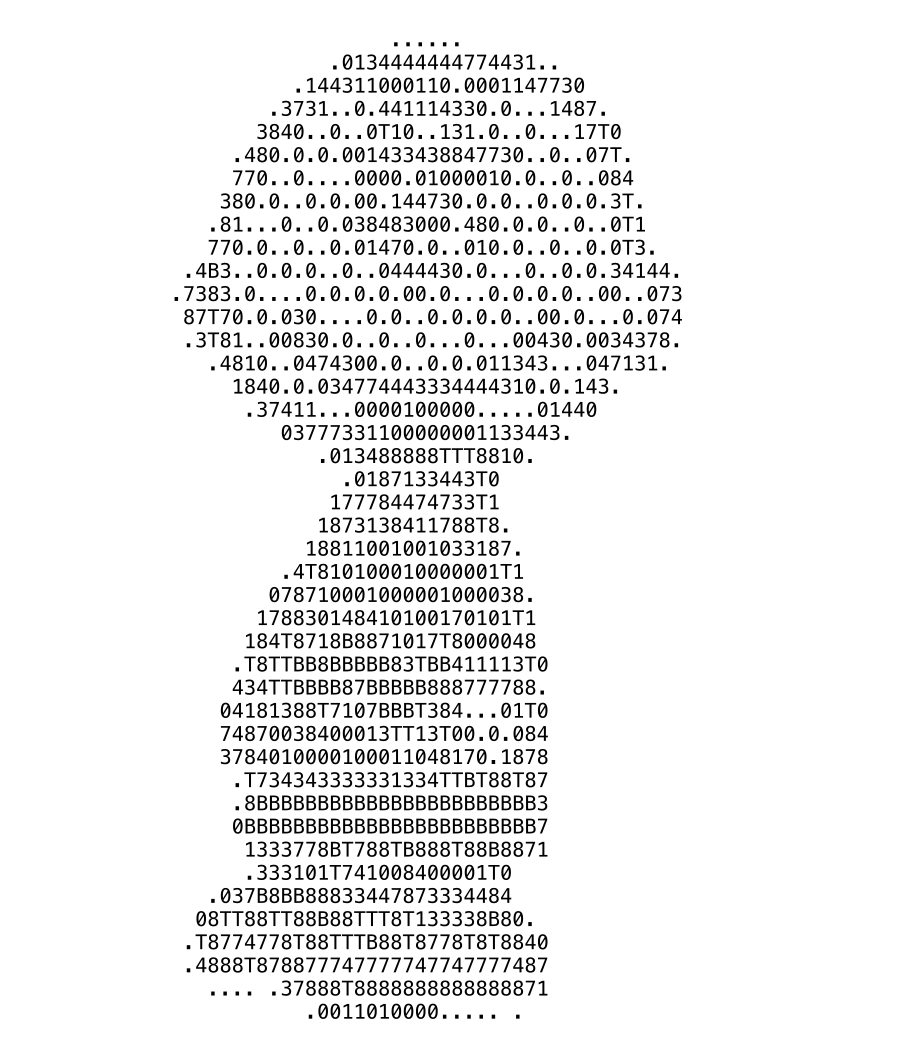
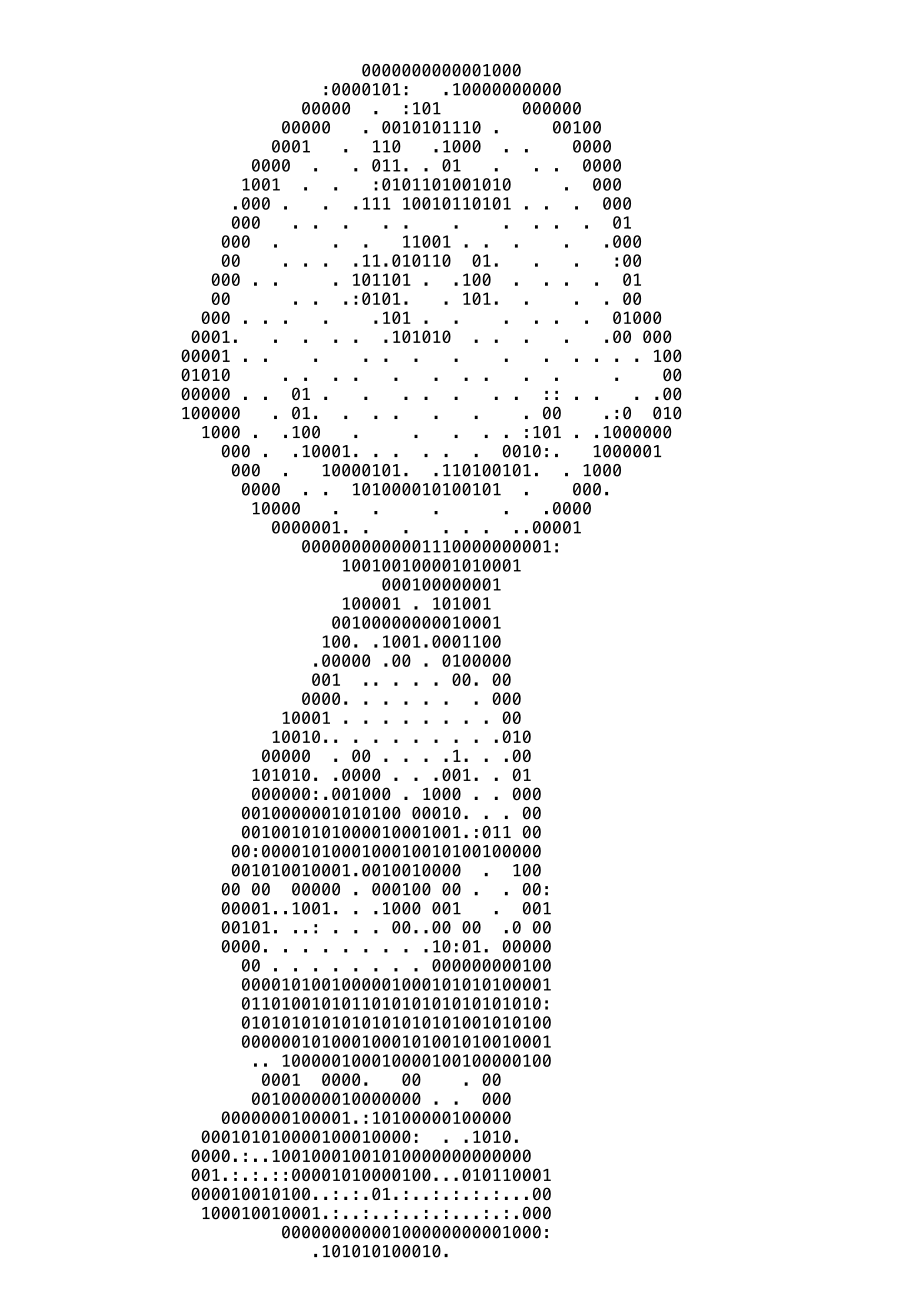
Add --lineart min-pool downscaling; fix Charlie render

Changed region(s): [[0.1867, 0.0304, 0.7778, 0.9715]]

diff --git a/src/lib.rs b/src/lib.rs
@@ -61,6 +61,9 @@ pub struct Options {
     /// Midtone gamma. `< 1.0` brightens midtones (sparser art on white),
     /// `> 1.0` darkens them. `1.0` = no change.
     pub gamma: f32,
+    /// Downscale by darkest-pixel instead of averaging — keeps thin dark
+    /// strokes solid. For cartoons, sketches, and line art.
+    pub line_art: bool,
 }
 
 impl Default for Options {
@@ -76,6 +79,7 @@ impl Default for Options {
             auto_contrast: true,
             dither: true,
             gamma: 1.0,
+            line_art: false,
         }
     }
 }
@@ -212,11 +216,50 @@ fn resize(img: &DynamicImage, w: u32, h: u32) -> DynamicImage {
     img.resize_exact(w.max(1), h.max(1), FilterType::Triangle)
 }
 
+/// Downscale by keeping the *darkest* source pixel per cell. Averaging washes
+/// a thin black stroke out to grey; min-pooling keeps every cell the stroke
+/// touches fully dark — the difference between a cartoon face surviving or not.
+fn min_pool(img: &DynamicImage, w: u32, h: u32) -> DynamicImage {
+    let (iw, ih) = img.dimensions();
+    let (w, h) = (w.max(1), h.max(1));
+    let mut out = image::RgbaImage::new(w, h);
+    for y in 0..h {
+        for x in 0..w {
+            let (x0, x1) = (x * iw / w, ((x + 1) * iw / w).clamp(x * iw / w + 1, iw));
+            let (y0, y1) = (y * ih / h, ((y + 1) * ih / h).clamp(y * ih / h + 1, ih));
+            let mut best = img.get_pixel(x0, y0);
+            let mut best_l = luminance(best);
+            for sy in y0..y1 {
+                for sx in x0..x1 {
+                    let p = img.get_pixel(sx, sy);
+                    let l = luminance(p);
+                    if l < best_l {
+                        best_l = l;
+                        best = p;
+                    }
+                }
+            }
+            out.put_pixel(x, y, best);
+        }
+    }
+    DynamicImage::ImageRgba8(out)
+}
+
+/// Pick the downscaler that matches the source: averaging for photos,
+/// darkest-pixel for line art.
+fn downscale(img: &DynamicImage, w: u32, h: u32, opts: &Options) -> DynamicImage {
+    if opts.line_art {
+        min_pool(img, w, h)
+    } else {
+        resize(img, w, h)
+    }
+}
+
 fn render_ascii(img: &DynamicImage, opts: &Options) -> String {
     let ramp: Vec<char> = opts.glyphs.chars().collect();
     let (iw, ih) = img.dimensions();
     let h = ((opts.width as f32) * (ih as f32 / iw as f32) * opts.char_aspect).round() as u32;
-    let small = resize(img, opts.width, h);
+    let small = downscale(img, opts.width, h, opts);
     let (w, hh) = (small.width() as usize, small.height() as usize);
     let idxs = quantize_plane(lum_plane(&small, opts), w, hh, ramp.len(), opts.dither);
 
@@ -278,7 +321,7 @@ fn render_braille(img: &DynamicImage, opts: &Options) -> String {
     // Cells are 2 dots wide × 4 tall; dots are ~square when rows = width*aspect/2.
     let cols = opts.width;
     let rows = ((cols as f32) * (ih as f32 / iw as f32) / 2.0).round().max(1.0) as u32;
-    let small = resize(img, cols * 2, rows * 4);
+    let small = downscale(img, cols * 2, rows * 4, opts);
     let (pw, ph) = (small.width() as usize, small.height() as usize);
     // Dithered: quantize dots to on/off with error diffusion (photo-friendly).
     // Undithered: plain threshold cut (crisp, for line art).

diff --git a/src/main.rs b/src/main.rs
@@ -61,6 +61,10 @@ struct Cli {
     #[arg(long, default_value_t = 1.0)]
     gamma: f32,
 
+    /// Darkest-pixel downscaling — keeps thin strokes solid (cartoons, line art).
+    #[arg(long)]
+    lineart: bool,
+
     /// Render only the first frame of a GIF.
     #[arg(long)]
     once: bool,
@@ -113,6 +117,7 @@ fn run(cli: Cli) -> Result<(), Box<dyn std::error::Error>> {
         auto_contrast: !cli.no_contrast,
         dither: !cli.no_dither,
         gamma: cli.gamma,
+        line_art: cli.lineart,
     };
 
     let is_gif = cli

diff --git a/README.md b/README.md
@@ -26,7 +26,7 @@ A Rust library (`terminal_artist`) and CLI (`tartist`).
 ```bash
 tartist dog.png     -w 160 -g density --invert --gamma 0.55 -a 0.45 -o dog.svg
 tartist flower.png  -w 150 -g density -c truecolor -o flower.svg
-tartist charlie.png -w 74  -g " .013478T8B" --invert -o charlie.svg
+tartist charlie.png -w 90  -g " .:10" --invert --lineart --gamma 0.6 -a 0.62 -o charlie.svg
 ```
 
 Floyd–Steinberg dithering (on by default) turns smooth gradients into halftone
@@ -75,6 +75,7 @@ tartist loop.gif --once                  # just the first frame
 | `--no-contrast` | disable the auto brightness stretch | off (stretch on) |
 | `--no-dither` | disable Floyd–Steinberg dithering (crisp bands, good for line art) | off (dither on) |
 | `--gamma` | midtone gamma: `<1` brightens (sparser art), `>1` darkens | `1.0` |
+| `--lineart` | darkest-pixel downscaling — thin strokes stay solid (cartoons, sketches) | off |
 | `--once` | render only a GIF's first frame | off |
 | `-l, --loops` | animation loops, `0` = forever | `0` |
 